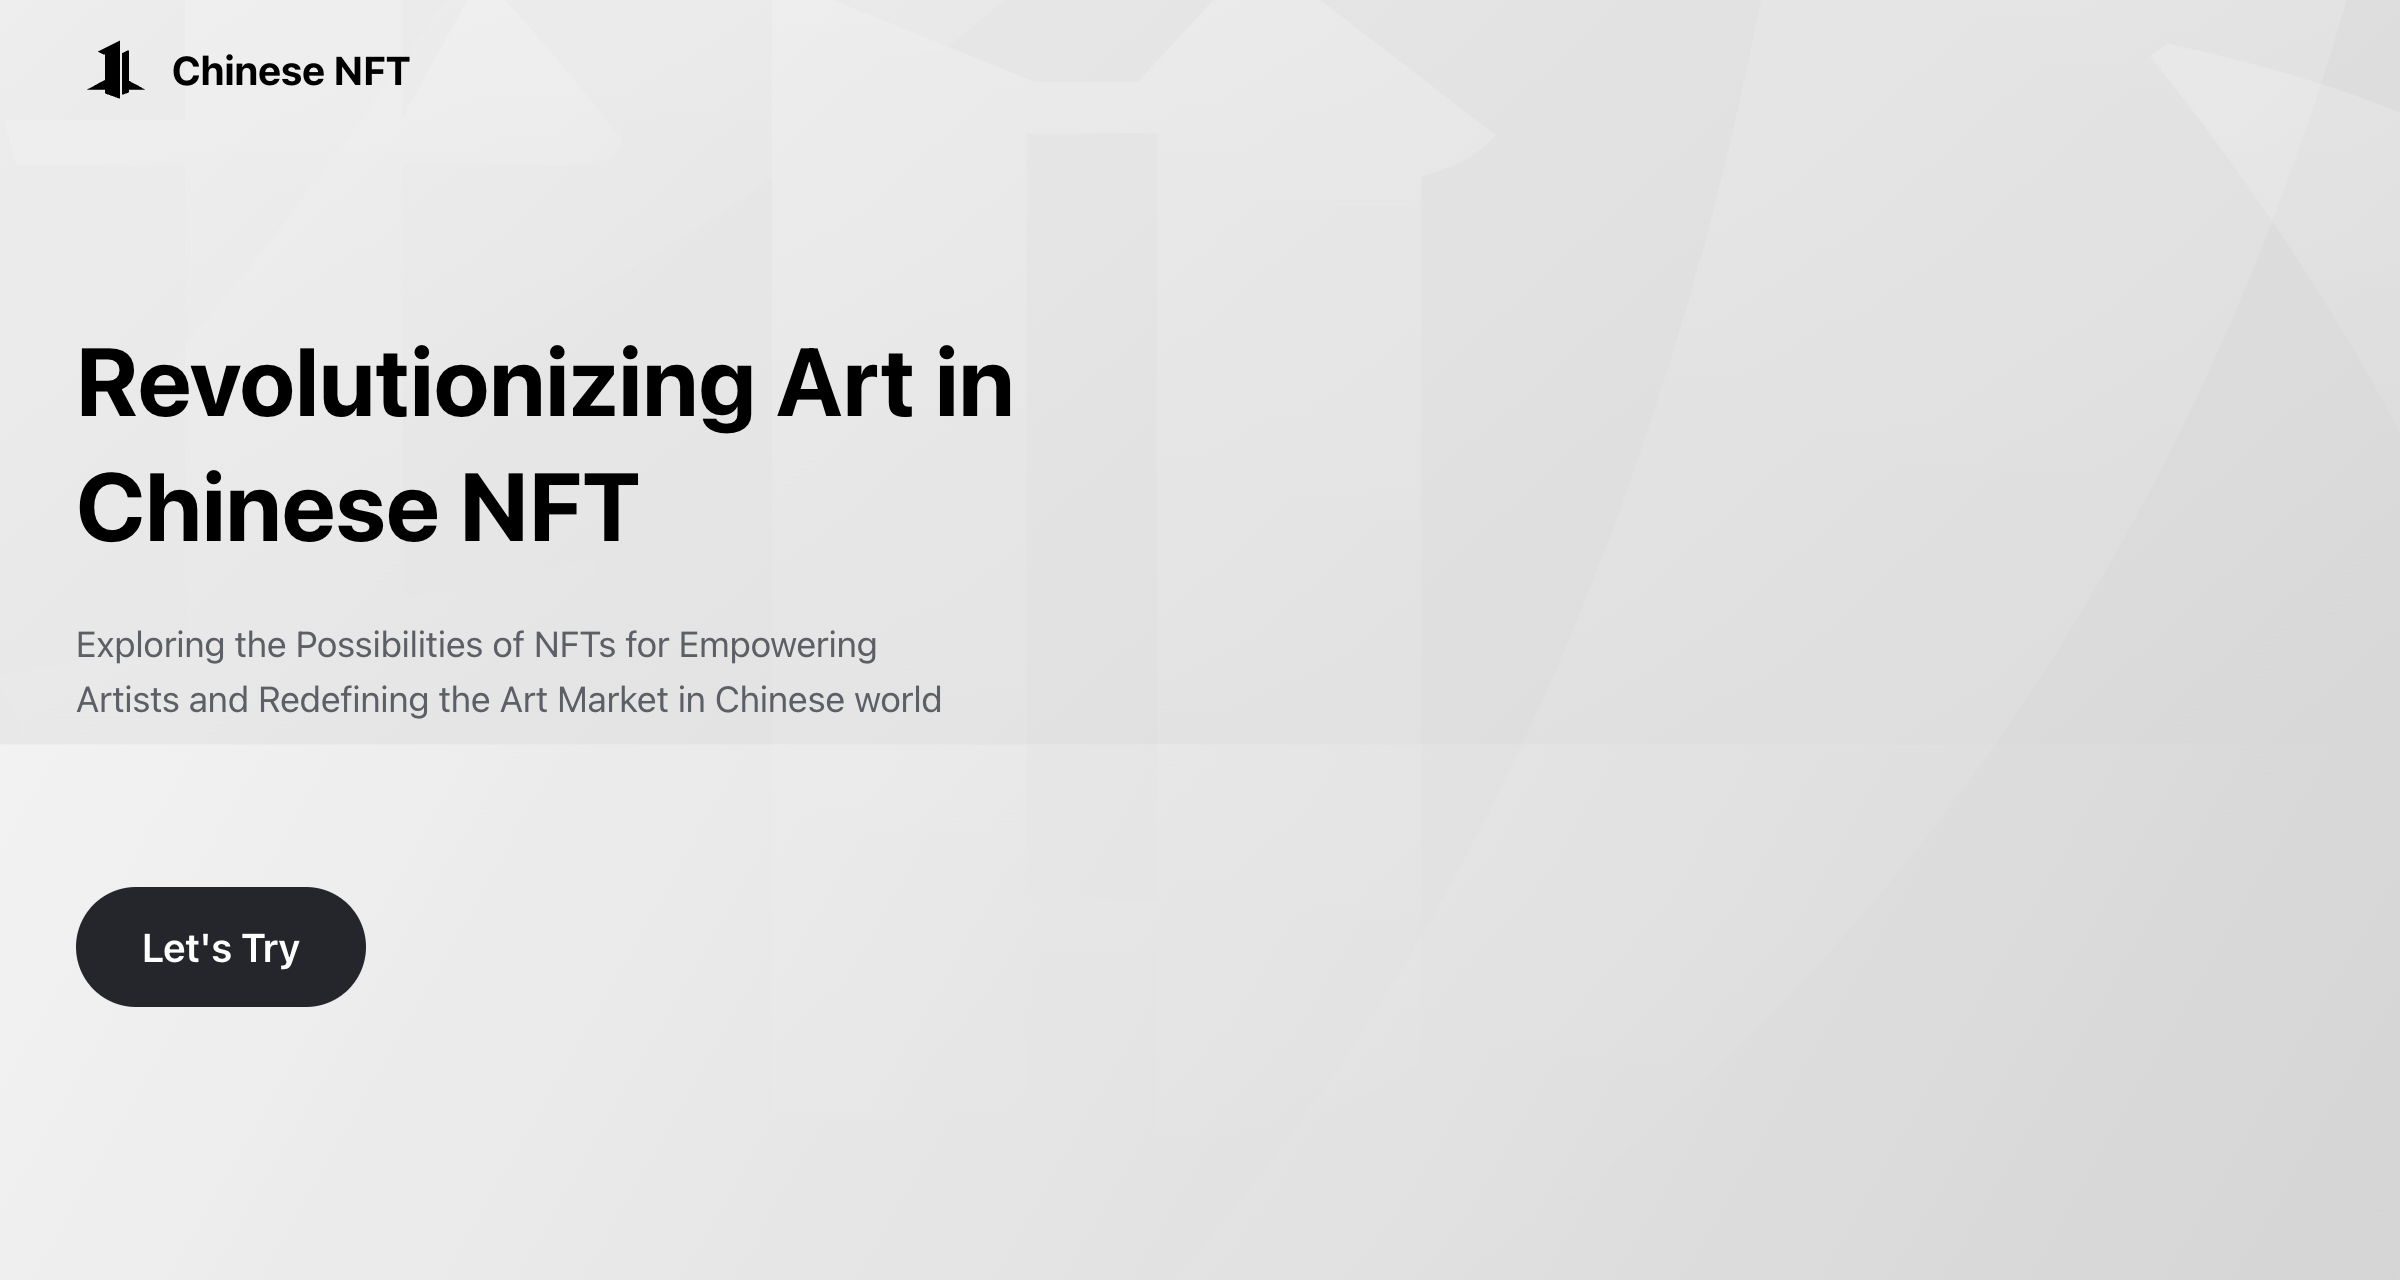
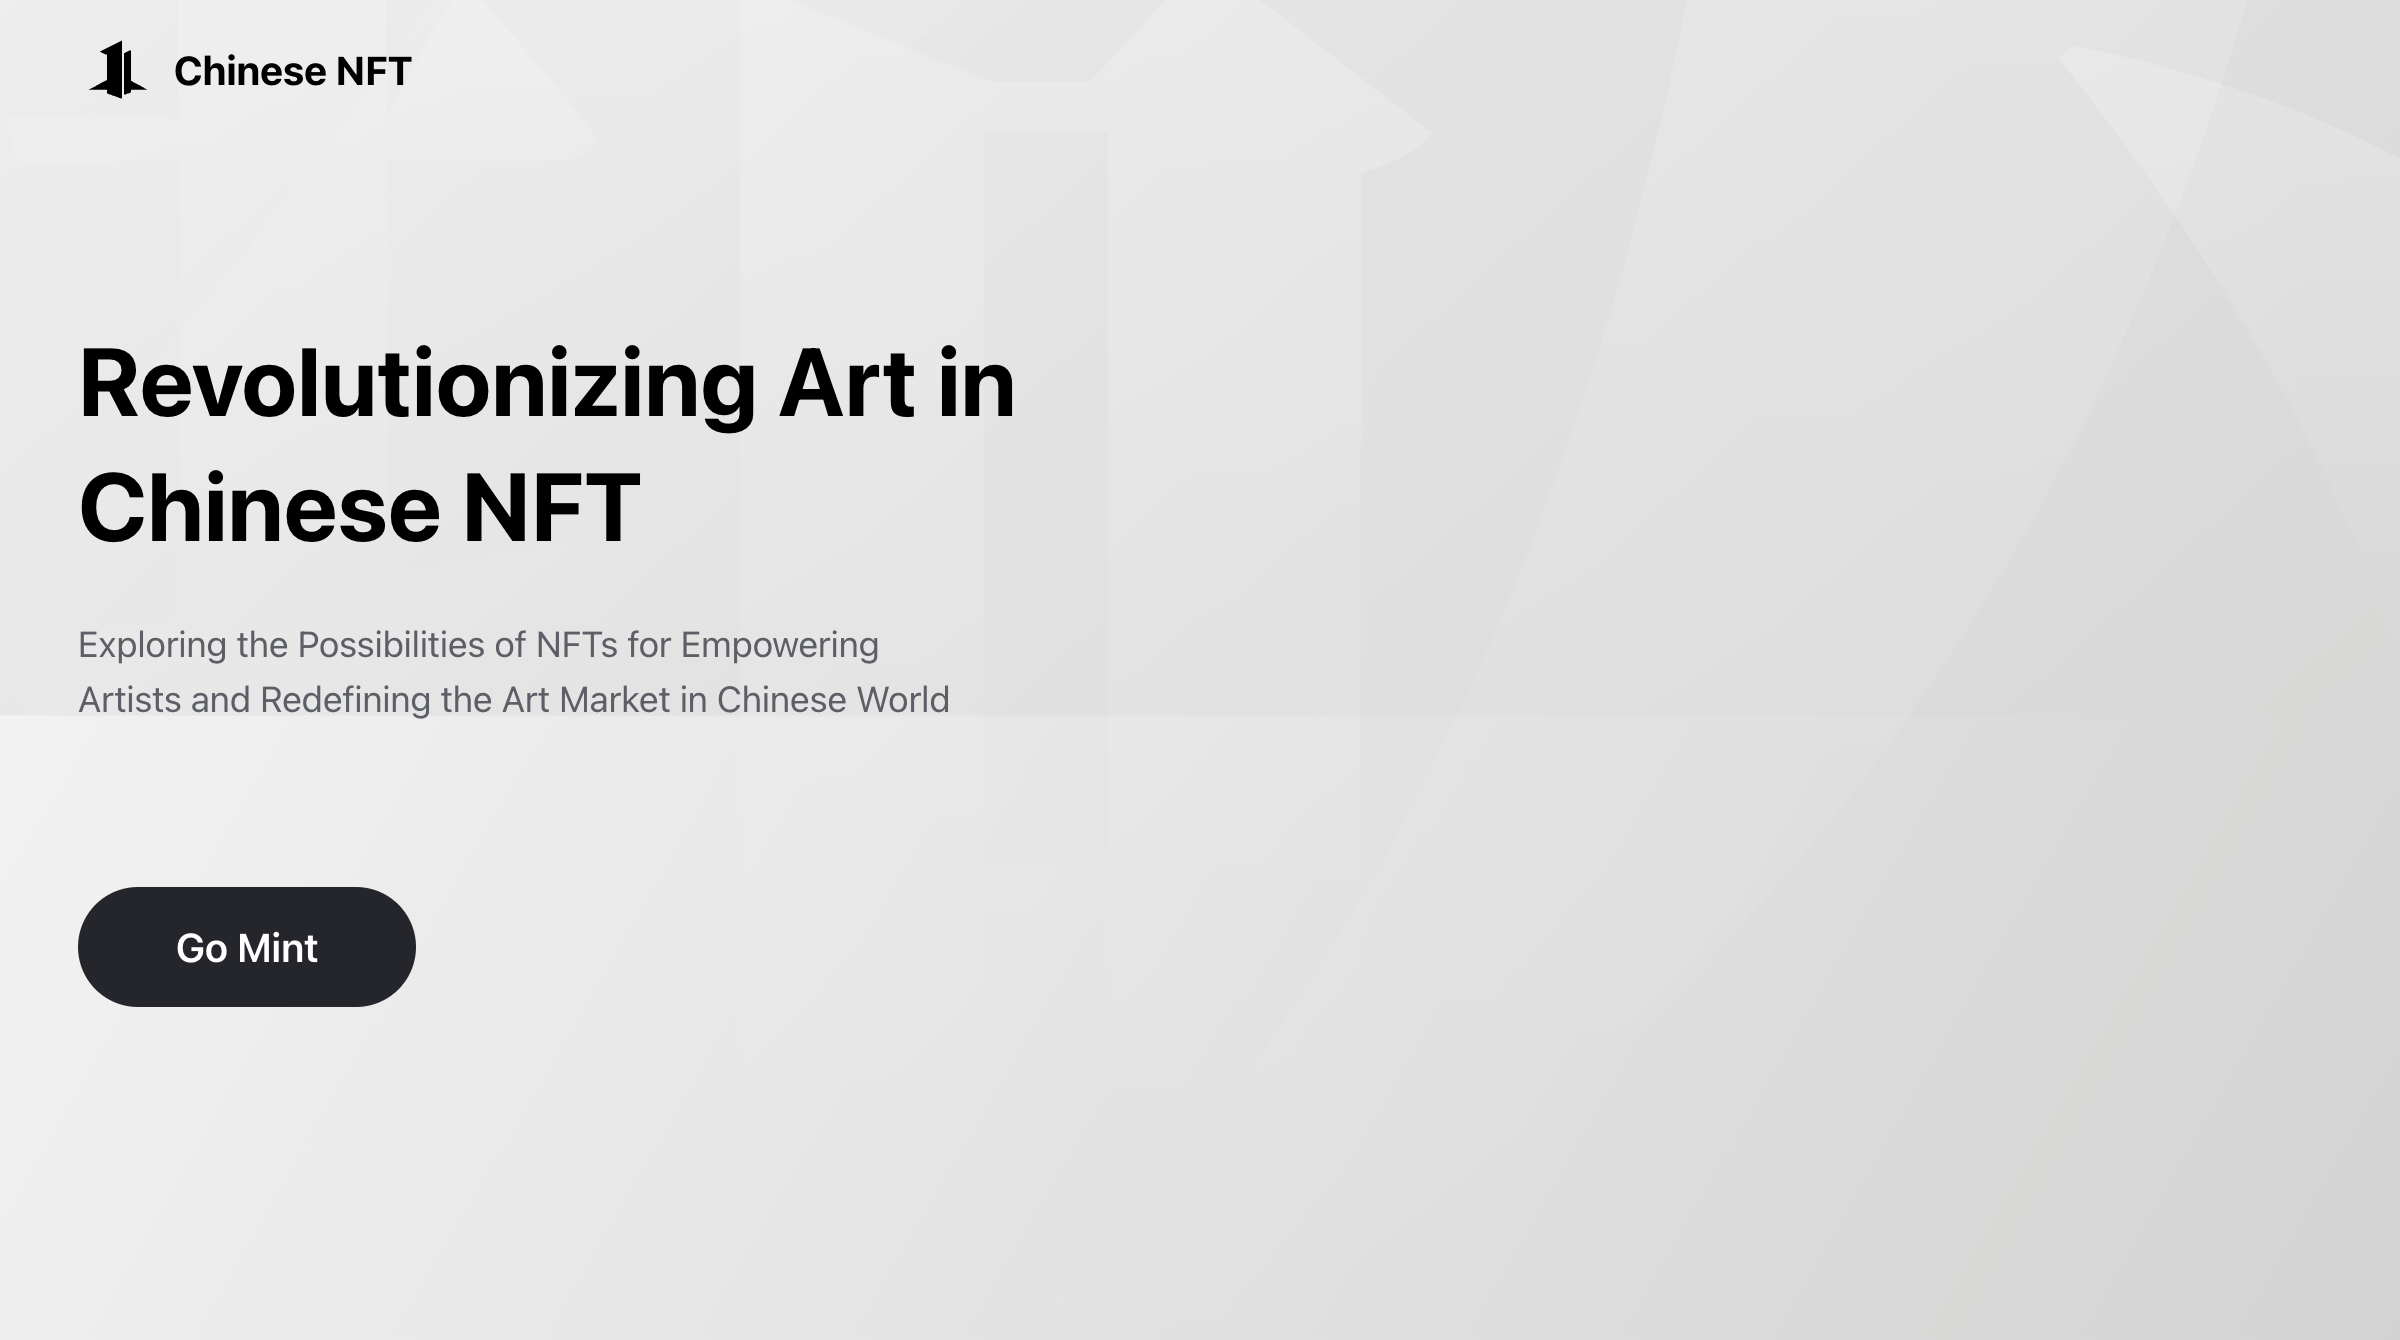
cover

diff --git a/pages/index.tsx b/pages/index.tsx
@@ -42,7 +42,7 @@ const Home: NextPage<{}> = () => {
           </Text>
 
           <Button radius={99} size="xl" px={48} onClick={() => router.push('/mint')}>
-            Let's Try
+            Go Mint
           </Button>
         </Box>
       </AppShell>
